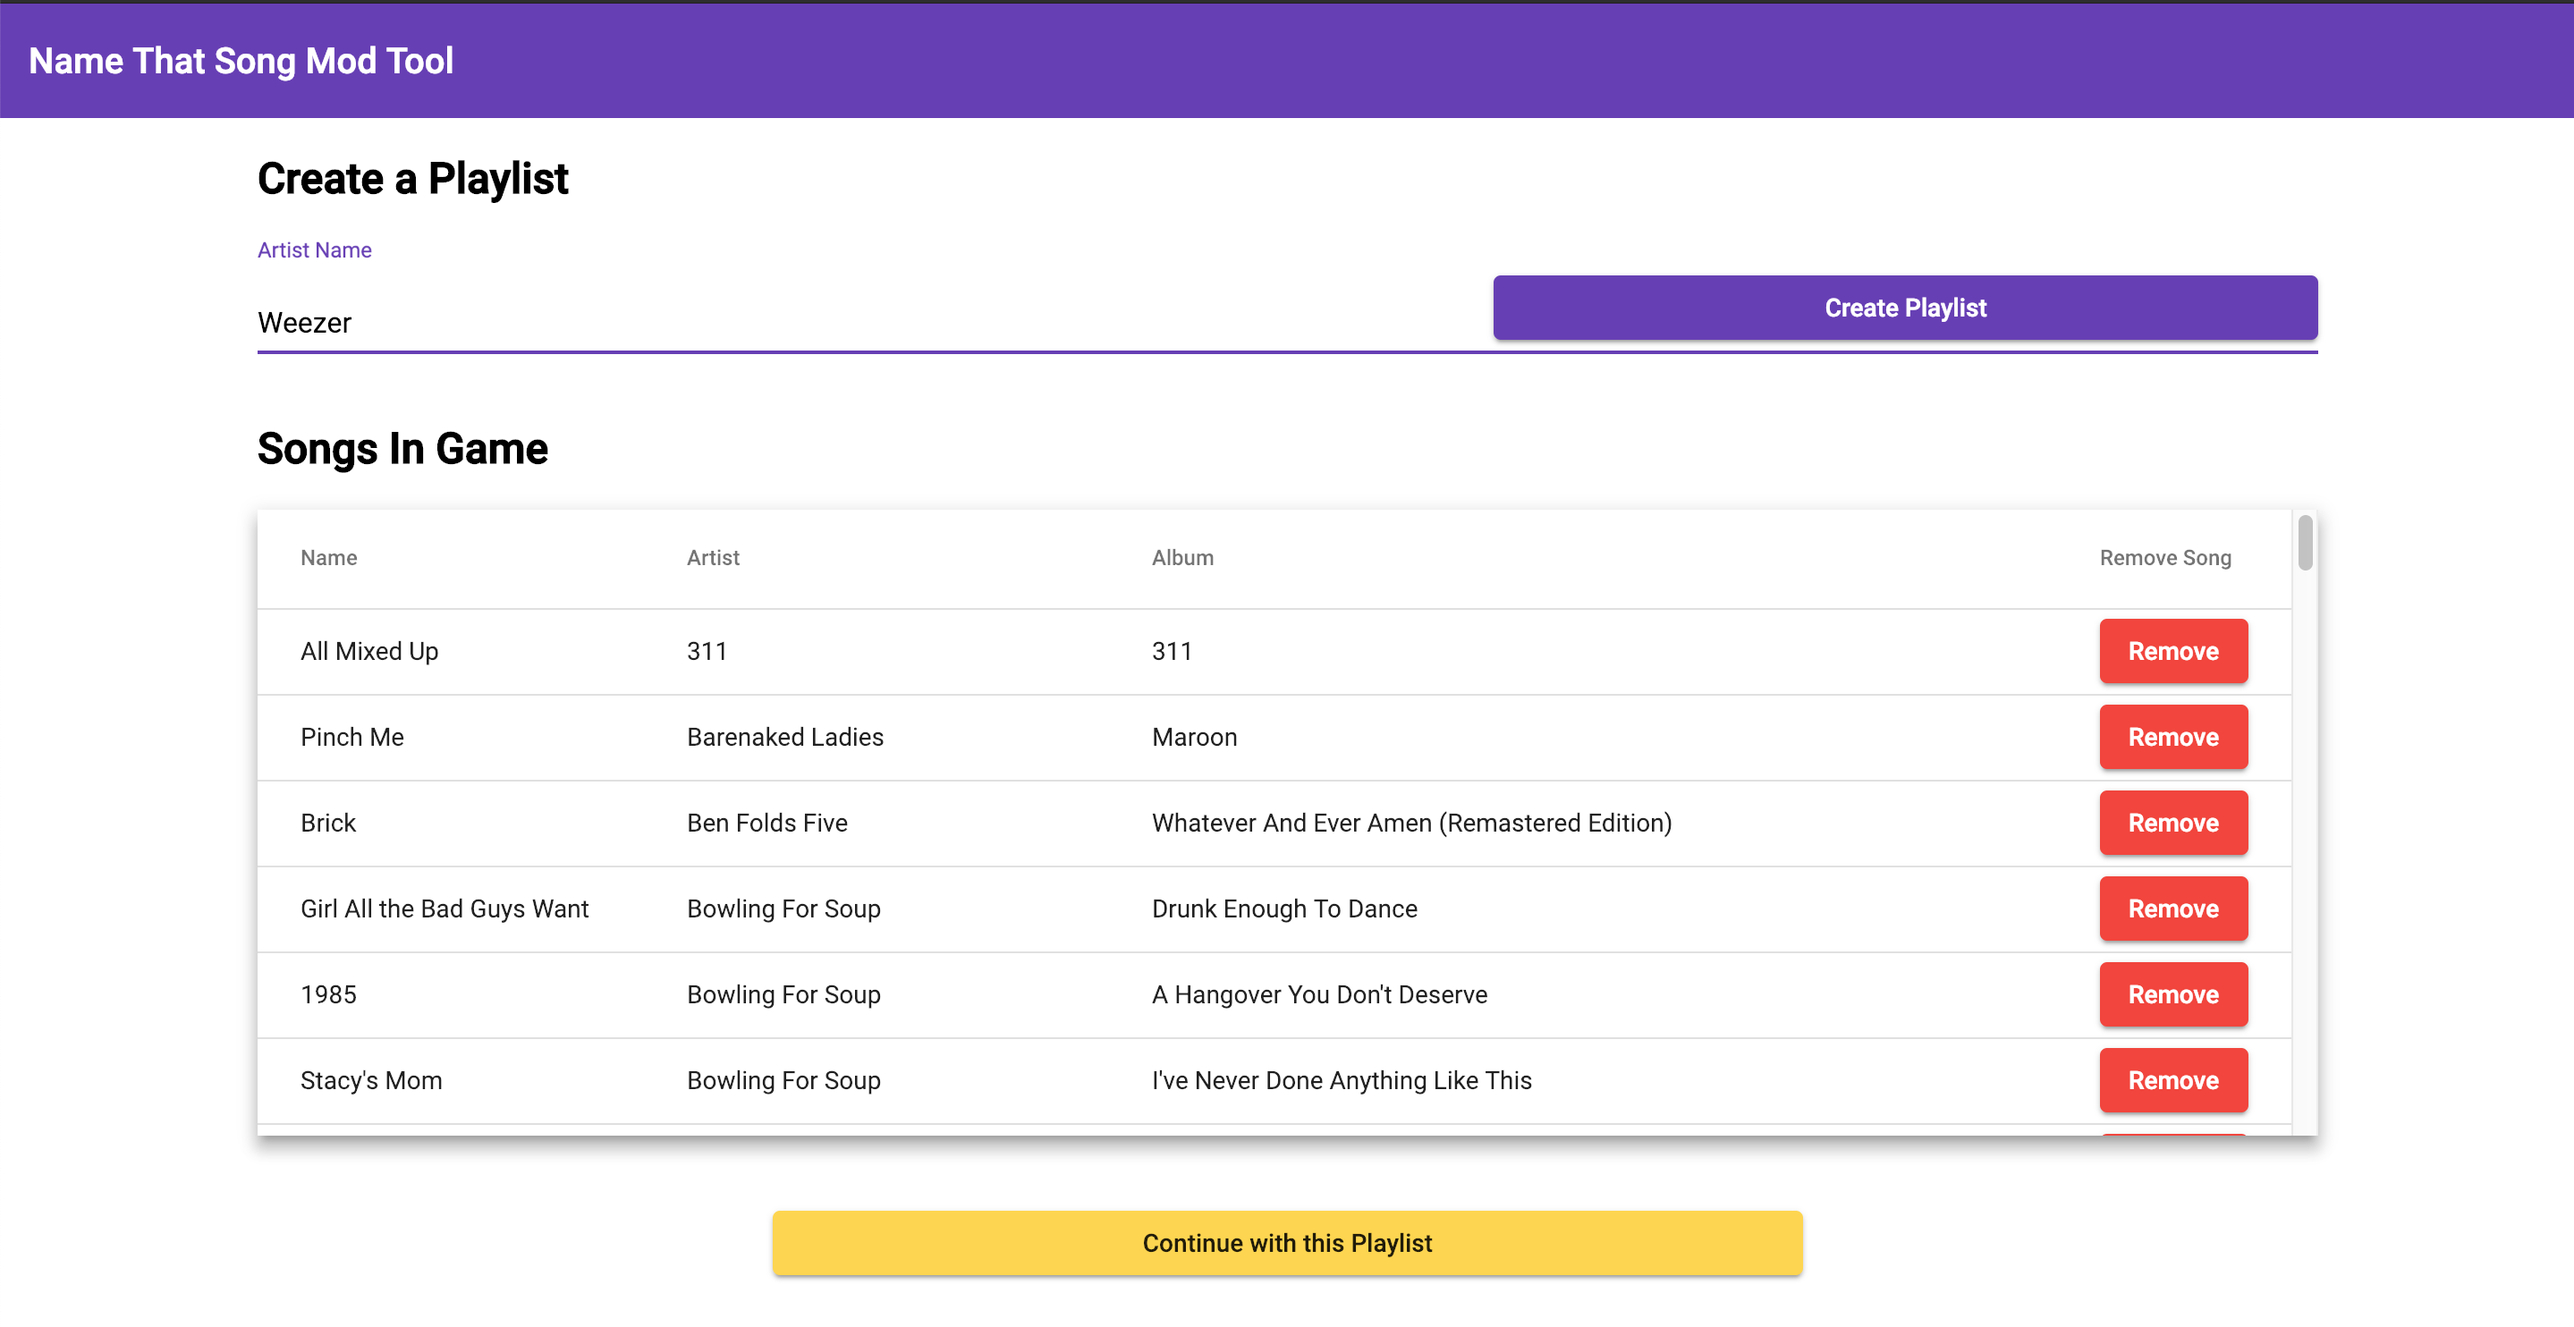
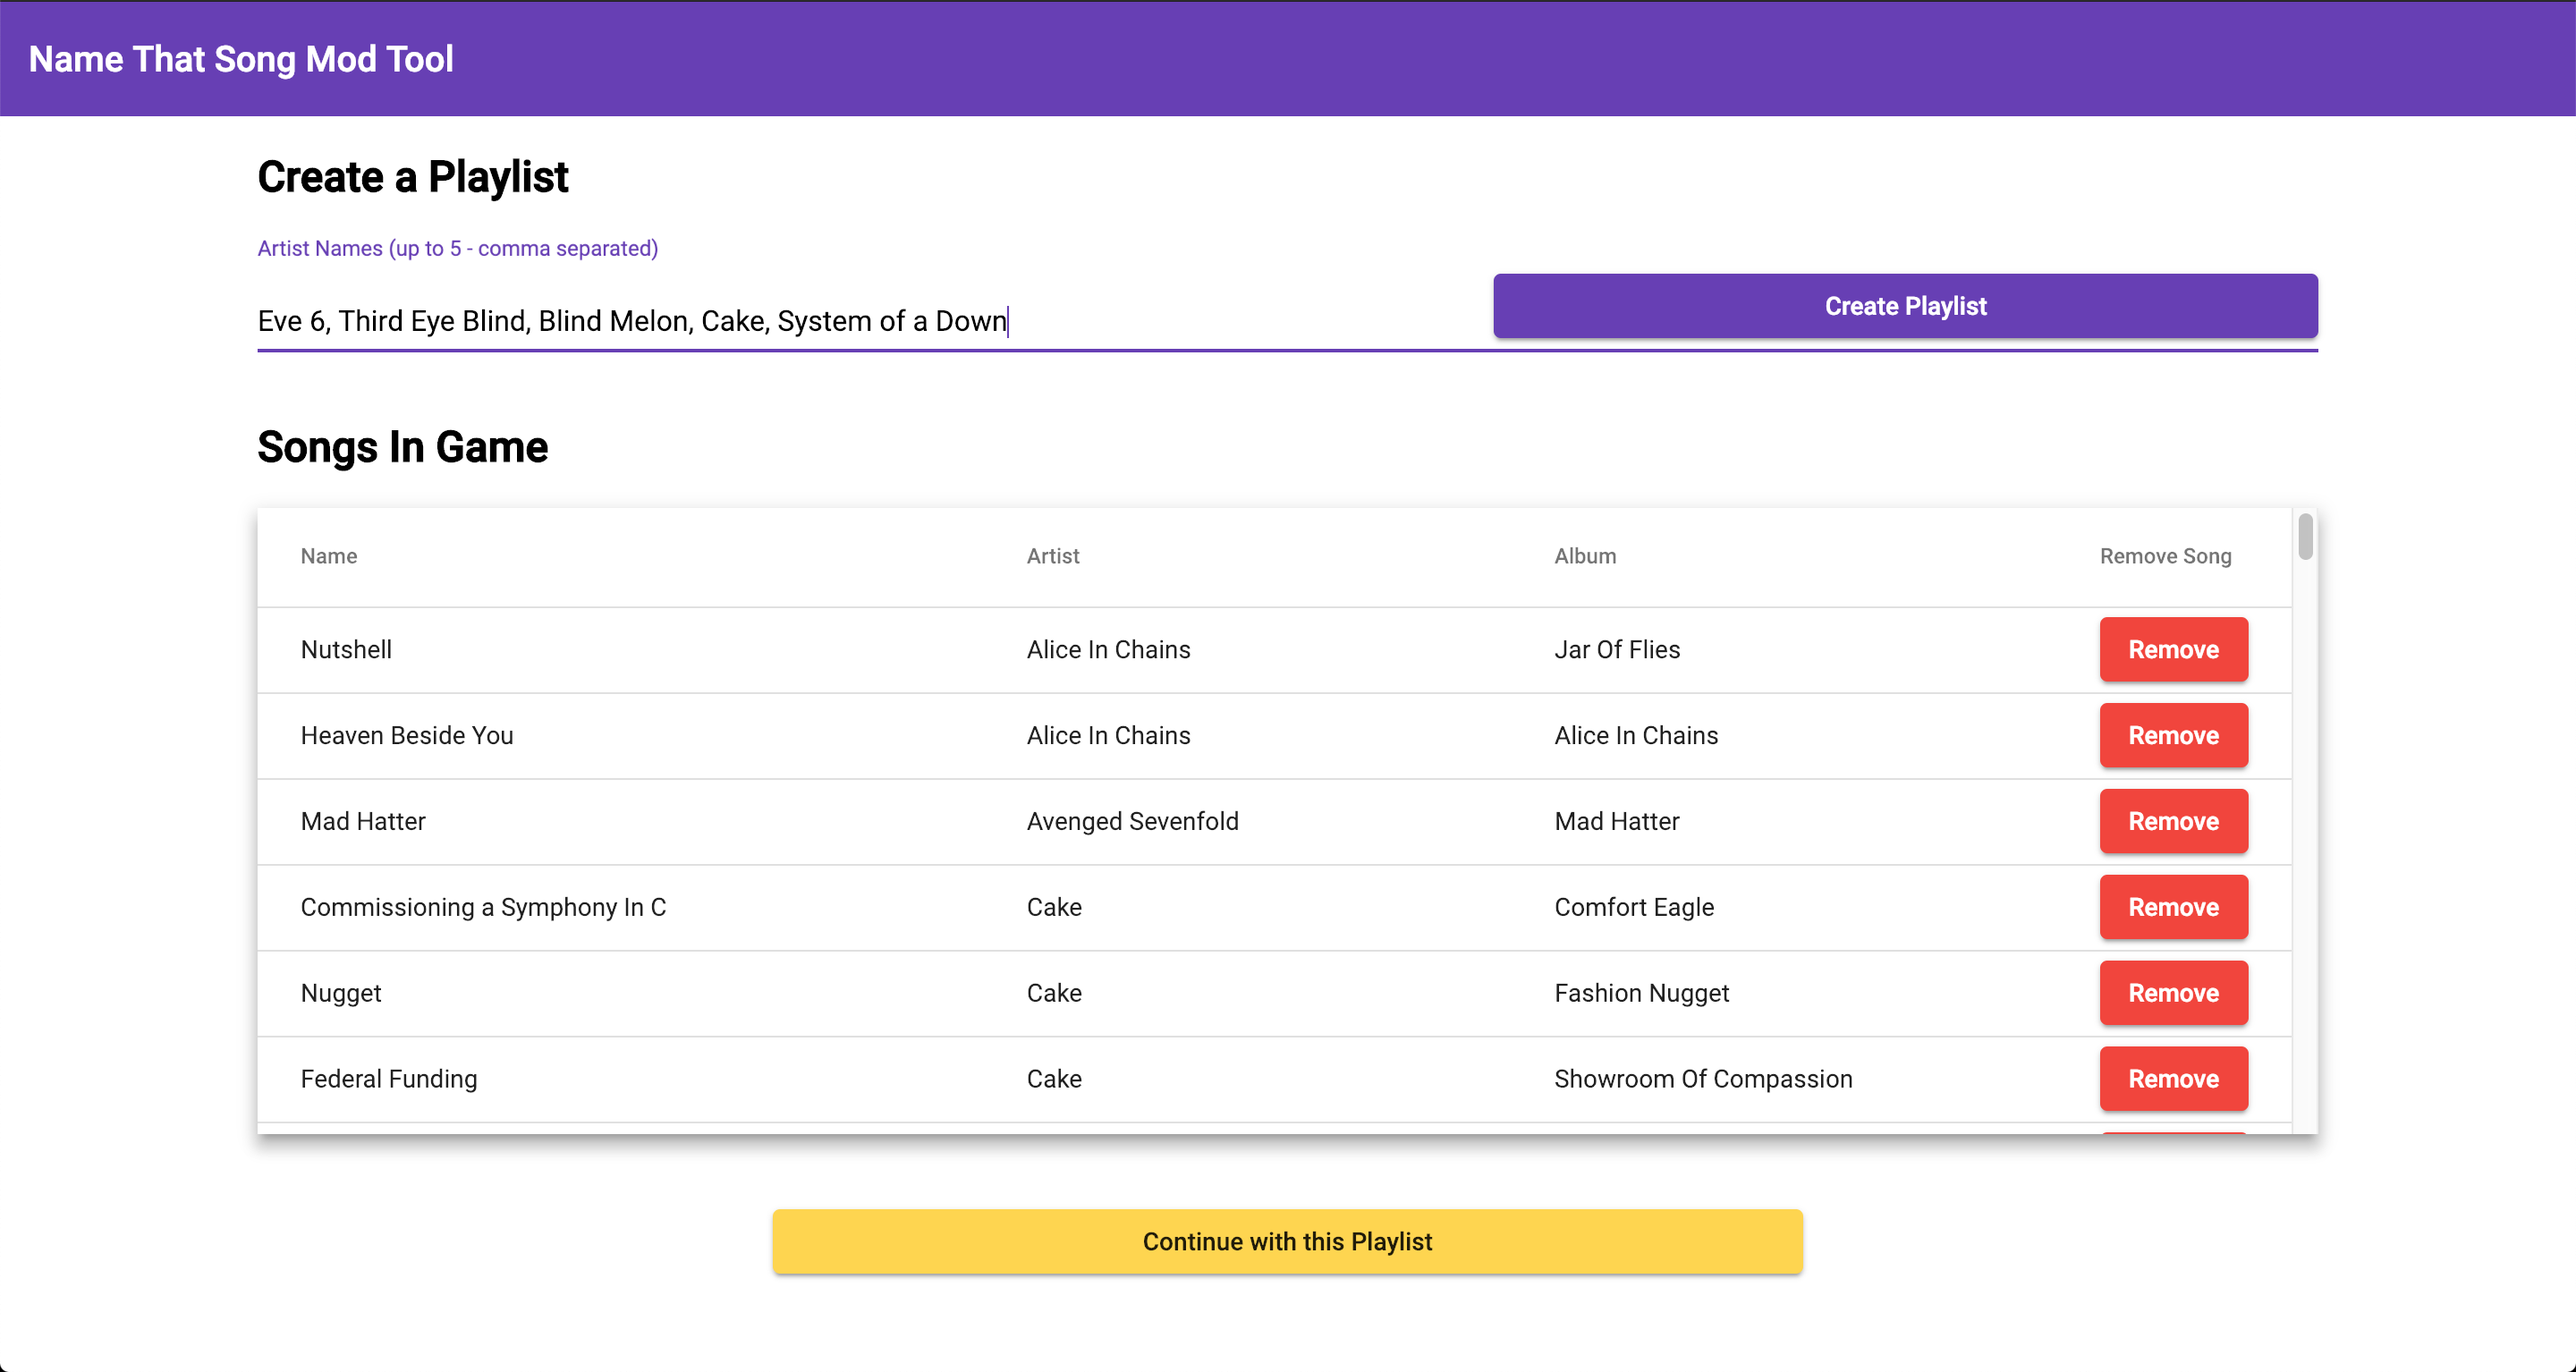
add support for multiple artists as playlist seeds

diff --git a/src/app/components/createPlaylist/createPlaylist.component.ts b/src/app/components/createPlaylist/createPlaylist.component.ts
@@ -16,6 +16,9 @@ export class CreatePlaylistComponent implements OnInit {
   artist = '';
   loading = false;
   errorMessage: MatSnackBarRef<SimpleSnackBar>;
+  errorOpts = {
+    duration: 5000
+  };
 
   constructor(
     private playlistService: PlaylistService,
@@ -39,7 +42,7 @@ export class CreatePlaylistComponent implements OnInit {
       this.errorMessage.dismiss();
     }
 
-    if (this.artist) {
+    if (this.artist && this.artist.split(',').length <= 5) {
       this.loading = true;
       this.playlistService
         .createPlaylist(this.artist)
@@ -53,9 +56,11 @@ export class CreatePlaylistComponent implements OnInit {
             this.playlist.data = playlist;
           },
           () => {
-            this.showError();
+            this.showServiceError();
           }
         );
+    } else {
+      this.showNumberOfArtistsError();
     }
   }
 
@@ -65,17 +70,23 @@ export class CreatePlaylistComponent implements OnInit {
       .subscribe(playlist => (this.playlist.data = playlist));
   }
 
-  showError() {
+  showServiceError() {
     this.errorMessage = this.snackBar.open(
       'Oops! Unable to retrieve a playlist for that artist',
       'Retry',
-      {
-        duration: 5000
-      }
+      this.errorOpts
     );
 
     this.errorMessage.onAction().subscribe(() => {
       this.createPlaylist();
     });
+  }
+
+  showNumberOfArtistsError() {
+    this.errorMessage = this.snackBar.open(
+      'Sorry! You must provide at least one artist and at most five',
+      null,
+      this.errorOpts
+    );
   }
 }

diff --git a/src/node/routes/spotify.js b/src/node/routes/spotify.js
@@ -11,21 +11,34 @@ const conf = require('../conf/app.conf'),
 
 class SpotifyRoute {
   constructor(router) {
-    router.get('/playlist/:artist', this.getSpotifyPlaylistForArtist);
+    router.get('/playlist/:artists', this.getSpotifyPlaylistForArtist);
   }
 
   getSpotifyPlaylistForArtist(req, res) {
-    const searchArtistSrvc = new SpotifySearchArtist(req.headers.reqid);
+    const artists = req.params.artists.split(','),
+      searchArtistSrvc = new SpotifySearchArtist(req.headers.reqid),
+      promises = [];
 
-    searchArtistSrvc
-      .getIdForArtist(req.params.artist)
-      .then(artistId => {
-        if (artistId) {
+    if (artists.length > 5) {
+      const e = new Error('Too many artists');
+      e.status = 400;
+
+      throw e;
+    } else {
+      artists.forEach(artist => {
+        promises.push(searchArtistSrvc.getIdForArtist(artist.trim()));
+      });
+    }
+
+    Promise.all(promises)
+      .then(artistIdsArr => {
+        if (artistIdsArr && artistIdsArr.length > 0) {
           const recommendationsSrvc = new SpotifyArtistRecommendations(
-            req.headers.reqid
-          );
+              req.headers.reqid
+            ),
+            artistIds = artistIdsArr.join(',');
 
-          return recommendationsSrvc.getRecommendationsForArtistId(artistId);
+          return recommendationsSrvc.getRecommendationsForArtistId(artistIds);
         } else {
           const e = new Error('No artist found');
           e.status = 404;

diff --git a/src/app/components/createPlaylist/createPlaylist.component.html b/src/app/components/createPlaylist/createPlaylist.component.html
@@ -4,7 +4,7 @@
     <mat-form-field>
       <input
         matInput
-        placeholder="Artist Name"
+        placeholder="Artist Names (up to 5 - comma separated)"
         [(ngModel)]="artist"
         name="artist"
       />

diff --git a/README.md b/README.md
@@ -6,7 +6,7 @@ This is an application to simplify moderating a game of Name That Song that I ha
 
 The game is simple - a preview of a song is played and players may guess the name and artist of the song. A correct guess is awarded one point, while an incorrect guess comes with a penalty of one point. Players may abstain from answering to prevent losing a point. Correctness / incorrectness is determined by the moderator. The game is over when a player reaches 5 points with a 2 point lead.
 
-This application gives the ability to enter the names of all players, select an artist as a playlist seed, preview and remove songs from the playlist, play song previews, score players, and open a link to the full song on Spotify.
+This application gives the ability to enter the names of all players, select up to five artists as playlist seeds, preview and remove songs from the playlist, play song previews, score players, and open a link to the full song on Spotify.
 
 ## Requirements
 
@@ -50,11 +50,11 @@ When all players have been added, click "Finished Adding Players" to continue to
 
 ![Create Playlist Page](screenshots/create-playlist-page.png?raw=true)
 
-Provide a seed artist in the text input and click "Create Playlist" to query Spotify for recommendations based on that artist.
+Provide up to 5 seed artists in the text input. Separate each artist with a comma. Click "Create Playlist" to query Spotify for recommendations based on that artist(s).
 
 You can remove individual songs by clicking the "Remove" button in the same row as the song's name. 
 
-You can generate an entirely new playlist by providing a different artist and clicking "Create Playlist" again.
+You can generate an entirely new playlist by providing a different set of artists and clicking "Create Playlist" again.
 
 When you are happy with your playlist, click "Continue with this Playlist" to move on to the game screen.
 
